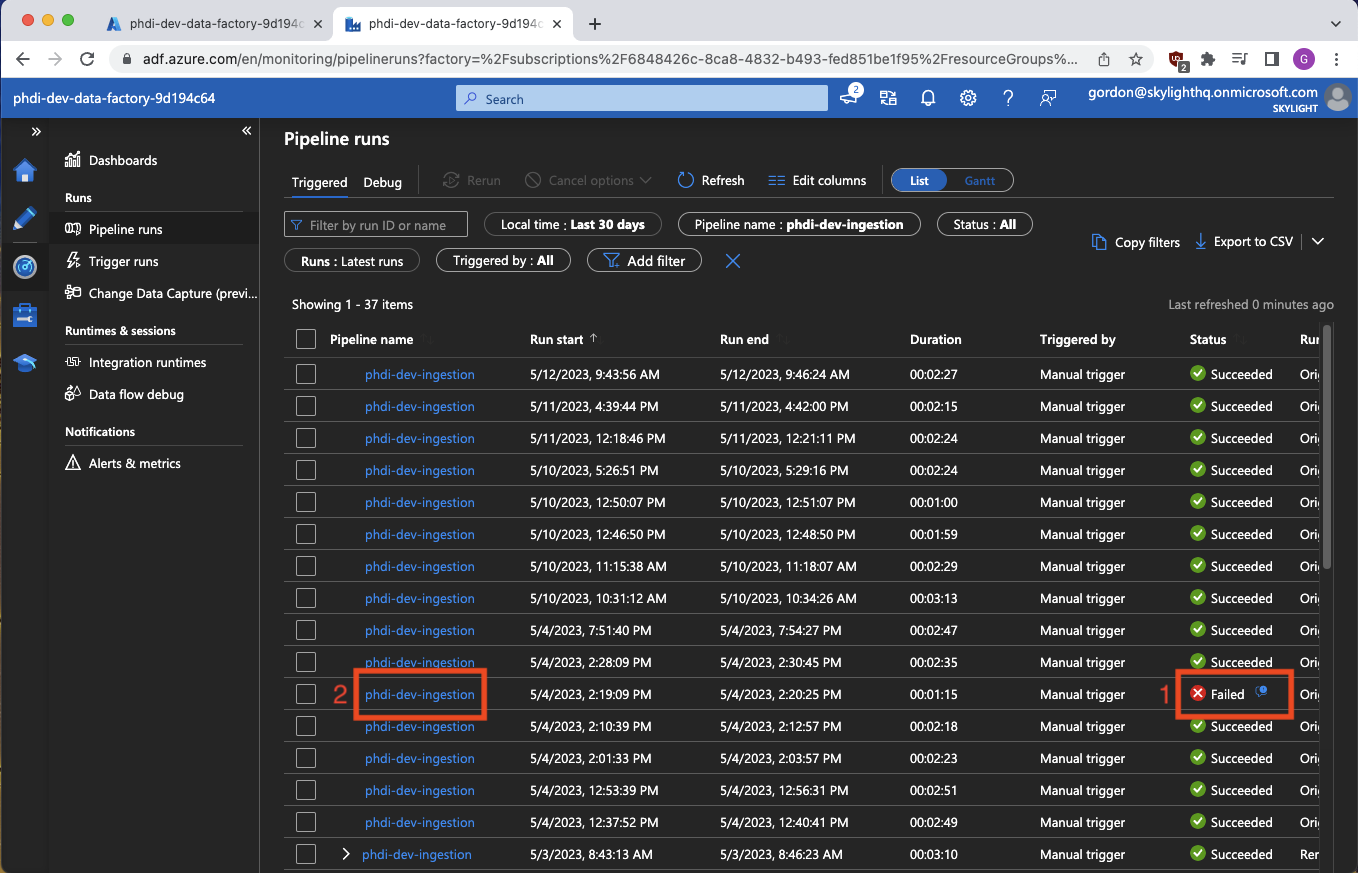
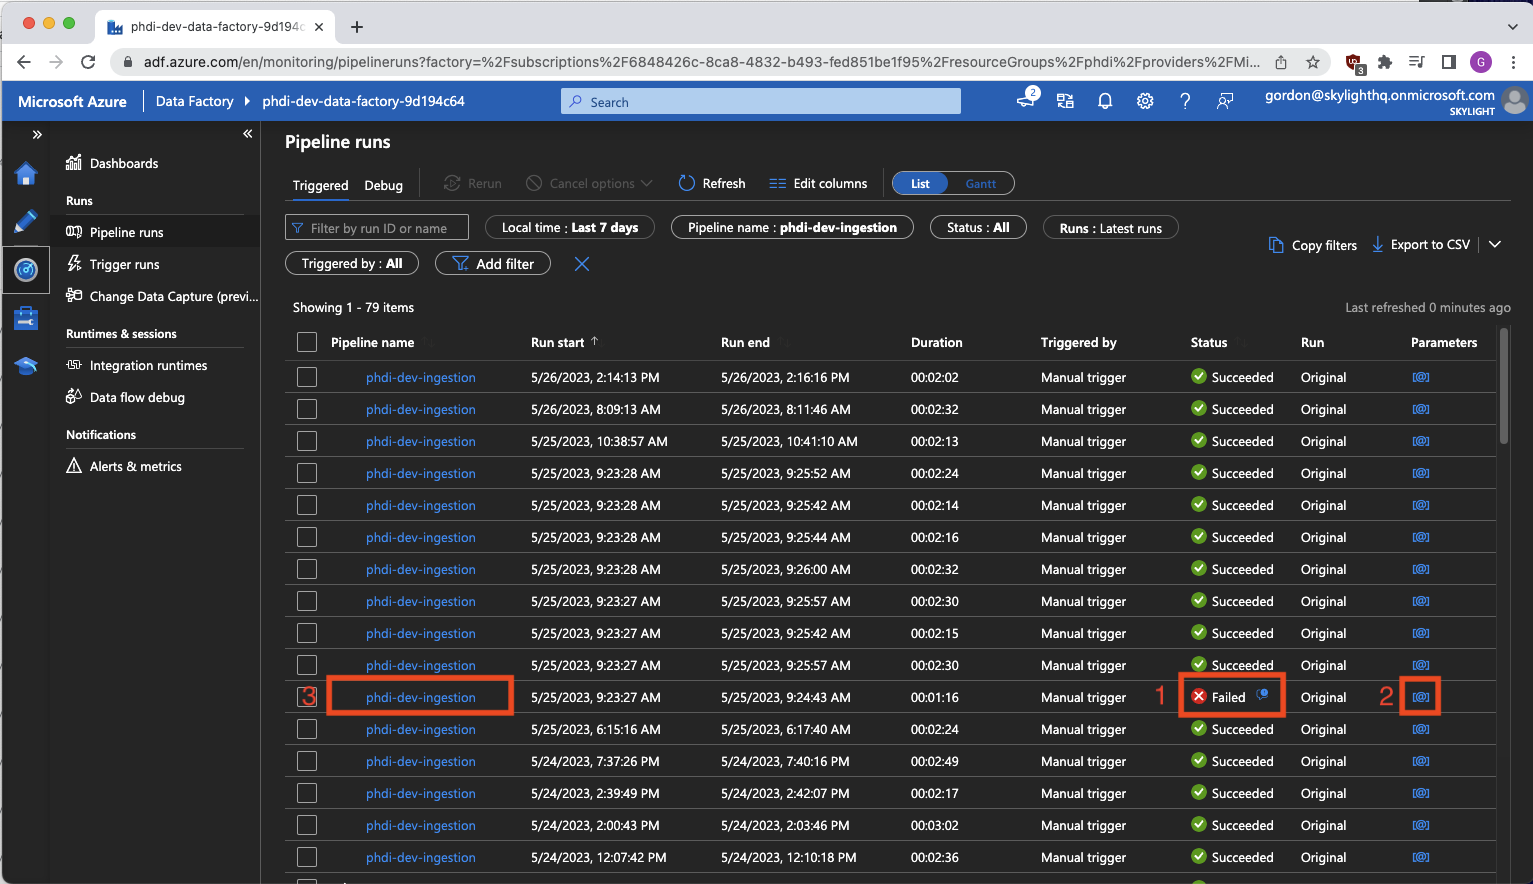
Add instructions for finding uploaded file name in ADF

diff --git a/docs/error-investigation-guide.md b/docs/error-investigation-guide.md
@@ -51,18 +51,21 @@ Clicking the radar button takes us to the following informative page.
 
 ![investigation-guide-5.png](./images/investigation-guide-5.png)
 <figcaption align = "left">Here we can see and sort all pipeline runs. The status column gives us
-at-a-glance feedback for if we've had any issues. It's also where we'll get a read on whether we have an issue
-with individual runs or a problem with the pipeline as a whole. Lone failures indicate a likely issue with the specific
+at-a-glance feedback for if we've had any issues with runs. It's also where we'll get a read on whether we have a problem
+with an individual run, a batch of messages, or a problem with the pipeline as a whole. Lone failures indicate a likely issue with the specific
 file uploaded for that run. Many successive failures, especially if all fail on a particular step in the pipeline, likely indicate a pipeline
 configuration issue or a problem in a building block. Orange box #1 is an example of a failed pipeline run. This is also the first place where we can see some error
 messaging by clicking the small blue icon by the word "Failed". However, I don't recommend 
-troubleshooting from here as the error formatting is poor and we're lacking important context.
-Clicking the link in orange box #2 takes us to a much more detailed view of the failed run.
+troubleshooting from here as the error formatting is poor and we're lacking important context. One important thing you can
+learn on this page is the name of the file associated with each run. In orange box #2 there's an @ in square brackets which
+can be clicked to see the parameters fed into the pipeline for that particular run, once of which is the name of the uploaded file.
+To get even more debugging info for a run, click the blue pipeline name link on the left, orange box #3. This takes us to a much more detailed and useful
+view of the failed run.
 </figcaption>
 <hr/>
 
 ![investigation-guide-6.png](./images/investigation-guide-6.png)
-<figcaption align = "left"><b>This is the most useful page for beginning a diagnosis of a failed pipeline run.</b> We have full context showing us exactly
+<figcaption align = "left"><b>This run details page is the most useful place for diagnosing the cause of a failure.</b> We have full context showing us exactly
 which steps succeeded or failed, and, most importantly, inputs and outputs of the failed step. The inputs/outputs are shown
 by clicking the small blue icons highlighted in the orange box. However, you won't see these icons on initial page load because, for some
 reason, Azure decided they should only appear on hover or click of the failed step in the lower list. The blue output icon
